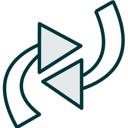
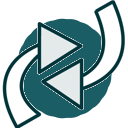
Add text color correction and refactor

Changed region(s): [[0.1875, 0.125, 0.875, 0.9375], [0.125, 0.2188, 0.3125, 0.4375]]

diff --git a/popup.html b/popup.html
@@ -1,25 +1,82 @@
-<!DOCTYPE html>
+<!doctype html>
 <html lang="en">
-<head>
-    <meta charset="UTF-8">
-    <meta http-equiv="X-UA-Compatible" content="IE=edge">
-    <meta name="viewport" content="width=device-width, initial-scale=1.0">
+  <head>
+    <meta charset="UTF-8" />
+    <meta http-equiv="X-UA-Compatible" content="IE=edge" />
+    <meta name="viewport" content="width=device-width, initial-scale=1.0" />
     <title>Options</title>
-    <link href="https://fonts.googleapis.com/css?family=Varela Round" rel="stylesheet">
-    <link rel="stylesheet" href="popup.css">
-</head>
-<body>
-    <label for="interval">Refresh Every:</label>
-    <input id="interval" placeholder="10"> Seconds
-    <br>
+    <link
+      href="https://fonts.googleapis.com/css?family=Varela Round"
+      rel="stylesheet"
+    />
+    <style>
+      @media (prefers-color-scheme: dark) {
+        body {
+          background-color: rgb(0, 0, 0);
+          color: white;
+        }
+      }
+      @media (prefers-color-scheme: light) {
+        body {
+          background-color: rgb(255, 255, 255);
+          color: rgb(0, 0, 0);
+        }
+      }
+      body {
+        width: 170px;
+        height: 150px;
+        font-family: "Varela Round";
+      }
 
-    <!-- Save Interval Button -->
-    <center>
-        <button id="save">Save</button>
-    </center>
-   
-    <p id="message" class="hidden">Interval Saved & Updated</p>
+      .hidden {
+        opacity: 0%;
+        transition: 2s;
+      }
 
-</body>
-<script src="popup.js"></script>
+      .show {
+        opacity: 100%;
+        transition: 2s;
+      }
+
+      #save {
+        background-color: rgb(20, 97, 95);
+        color: white;
+        width: 75px;
+        height: 30px;
+        border: none;
+        border-radius: 3px;
+        transition: background-color 0.3s ease;
+      }
+
+      #save:hover {
+        background-color: rgb(34, 132, 129);
+      }
+    </style>
+  </head>
+  <body style="display: grid; gap: 10px">
+    <div style="display: flex; align-items: center">
+      <label for="interval">Refresh (seconds): </label>
+      <input
+        style="width: 15px; margin-left: 5px"
+        id="interval"
+        placeholder="10"
+      />
+    </div>
+
+    <div style="display: flex; align-items: center">
+      <label for="textcorrect">Correct Text (Dark Mode): </label>
+      <input type="checkbox" id="textcorrect" />
+    </div>
+
+    <div style="justify-self: center">
+      <button id="save">Save</button>
+    </div>
+
+    <div>
+      <p style="justify-self: center" id="message" class="hidden">
+        Interval Saved & Updated
+      </p>
+    </div>
+  </body>
+  <script src="popup.js"></script>
 </html>

diff --git a/popup.js b/popup.js
@@ -1,66 +1,51 @@
-let saveButton = document.getElementById('save')
+let saveButton = document.getElementById("save");
+let textCorrect = document.getElementById("textcorrect");
 
-saveButton.addEventListener('click', async () => {
-    let newInterval = document.getElementById('interval').value;
-    
-    // Check if not a number
-    if (isNaN(parseInt(newInterval))) {
-        let message = document.getElementById('message');
-        message.innerHTML = "Not a valid interval";
-        message.classList = "show";
-       setTimeout(()=>{
-        message.classList = "hidden";
-       }, "3000");
+saveButton.addEventListener("click", async () => {
+  let newInterval = document.getElementById("interval").value;
 
-    } else {
-        let message = document.getElementById('message');
-        message.innerHTML = "Interval Saved & Updated";
+  // Check if not a number
+  if (isNaN(parseInt(newInterval))) {
+    let message = document.getElementById("message");
+    message.innerHTML = "Not a valid interval";
+    message.classList = "show";
+    setTimeout(() => {
+      message.classList = "hidden";
+    }, "3000");
+  } else {
+    let message = document.getElementById("message");
+    message.innerHTML = "Saved & Updated";
 
-        // get active tabs
-        const tabs = await new Promise((resolve)=>{
-            chrome.tabs.query({active: true}, (tabs)=>{
-                resolve(tabs);
-            });
-        });
-        
-        for(const tab of tabs){
-            // Send value to content script
-            chrome.tabs.sendMessage(tab.id, {action: "update", seconds:newInterval});
-        }
+    // get active tabs
+    const tabs = await new Promise((resolve) => {
+      browser.tabs.query({ active: true }, (tabs) => {
+        resolve(tabs);
+      });
+    });
 
-        chrome.storage.local.set({"interval": newInterval});
+    browser.storage.local.set({ interval: newInterval });
+    browser.storage.local.set({ textcorrect: textCorrect.checked });
 
-        let message = document.getElementById('message');
-        message.classList = "show";
-       setTimeout(()=>{
-        message.classList = "hidden";
-       }, "3000");
-    }
+    message = document.getElementById("message");
+    message.classList = "show";
+    setTimeout(() => {
+      message.classList = "hidden";
+    }, "3000");
+  }
 });
 
 const intervalFill = async () => {
-    const interval = await new Promise((resolve)=>{
-        chrome.storage.local.get("interval", (result)=>{
-            resolve(result['interval']);
-        });
+  const interval = await new Promise((resolve) => {
+    browser.storage.local.get("interval", (result) => {
+      resolve(result["interval"]);
     });
+  });
 
-    if(interval)
-        document.getElementById('interval').value = interval
-}
+  if (interval) document.getElementById("interval").value = interval;
+};
 
 intervalFill();
 
-
-  
-  
-  
-  
-  
-
-
-
-
-
-
-
+browser.storage.local.get("textcorrect", (result) => {
+  if (result["textcorrect"]) textCorrect.checked = true;
+});

diff --git a/styler.js b/styler.js
@@ -1,33 +1,42 @@
-let fixText = false;
-
-const fixText = () => {
-    for (const comment of document.querySelectorAll(".zd-comment")) {
-        const allDescendants = comment.querySelectorAll("*");
-        for (const el of allDescendants) {
-            if (window.getComputedStyle(el).color === 'rgb(0, 0, 0)')
-                el.style.color = 'rgb(255, 255, 255)';
-        }
+let textCorrect = false;
+let mutationObserver;
+const fixText = (dark = true) => {
+  for (const comment of document.querySelectorAll(".zd-comment")) {
+    const allDescendants = comment.querySelectorAll("*");
+    for (const el of allDescendants) {
+      if (dark && window.getComputedStyle(el).color === "rgb(0, 0, 0)")
+        el.style.color = "rgb(255, 255, 255)";
+      else if (
+        !dark &&
+        window.getComputedStyle(el).color === "rgb(255, 255, 255)"
+      )
+        el.style.color = "rgb(0, 0, 0)";
     }
+  }
 };
 
 const setupFixMutation = () => {
-  fixText = true;
-  fixText();
   setTimeout(() => {
-    fixText(); // call again in case no further mutations occur
-    new MutationObserver((mutationList) => {
-        correctText();
-    }).observe(document, {subtree: true, childList: true});
-  }, 3000);
+    fixText();
+    mutationObserver = new MutationObserver((mutationList) => {
+      fixText();
+    }).observe(document, { subtree: true, childList: true });
+  }, 1000); // timeout to reduce flashing
 };
 
-chrome.storage.local.get("fixtext", (result) => {
-    fixText = result["fixtext]
-    if (fixText)
-        setupFixMutation();   
+browser.storage.local.get("textcorrect", (result) => {
+  textCorrect = result["textcorrect"];
+  if (textCorrect) setupFixMutation();
 });
 
-chrome.storage.local.onChange.addListener(()=>{
-    if (!fixText && result["fixtext])
-        setupFixMutation();   
+browser.storage.local.onChanged.addListener((result) => {
+  if (!result["textcorrect"]) return;
+  if (result["textcorrect"].newValue) {
+    textCorrect = true;
+    setupFixMutation();
+  } else if (!result["textcorrect"].newValue) {
+    textCorrect = false;
+    if (mutationObserver) mutationObserver.disconnect();
+    fixText(false);
+  }
 });

diff --git a/refresher.js b/refresher.js
@@ -1,39 +1,39 @@
 var zendeskRefreshId;
 
 const clickRefresh = () => {
-    const refresh = document.querySelectorAll("[data-test-id='views_views-list_header-refresh']")[0];
-    // Only click when page is a filter/view
-    if(refresh !== undefined && window.location.href.includes(".zendesk.com/agent/filters/")){
-      console.log("Clicked refresh button");
-      refresh.click();
-    }
-}
+  const refresh = document.querySelectorAll(
+    "[data-test-id='views_views-list_header-refresh']",
+  )[0];
+  // Only click when page is a filter/view
+  if (
+    refresh !== undefined &&
+    window.location.href.includes(".zendesk.com/agent/filters/")
+  ) {
+    refresh.click();
+  }
+};
 
 const setupInterval = () => {
-  chrome.storage.local.get("interval", (result)=>{
+  browser.storage.local.get("interval", (result) => {
     let seconds = 10; // default interval
-    if(result['interval'])
-      seconds = result['interval']
-    
-    if(zendeskRefreshId)
-      clearInterval(zendeskRefreshId)
-
+    if (result["interval"]) seconds = result["interval"];
+    if (zendeskRefreshId) clearInterval(zendeskRefreshId);
     zendeskRefreshId = setInterval(clickRefresh, seconds * 1000);
   });
-}
+};
 
-// Update script
-chrome.runtime.onMessage.addListener((message, sender, sendResponse)=>{
-  if(message.action === "update"){
-      const seconds = message.seconds;
-      clearInterval(zendeskRefreshId);
-      zendeskRefreshId = setInterval(clickRefresh, seconds * 1000);
-  }
-});
-
-// Restore interval after inactivity 
-window.addEventListener("focus", ()=>{
+// Restore interval after inactivity
+window.addEventListener("focus", () => {
   setupInterval();
 });
 
 setupInterval();
+
+browser.storage.local.onChanged.addListener((result) => {
+  if (!result["interval"] || !result["interval"].newValue) return;
+  if (zendeskRefreshId) clearInterval(zendeskRefreshId);
+  zendeskRefreshId = setInterval(
+    clickRefresh,
+    result["interval"].newValue * 1000,
+  );
+});